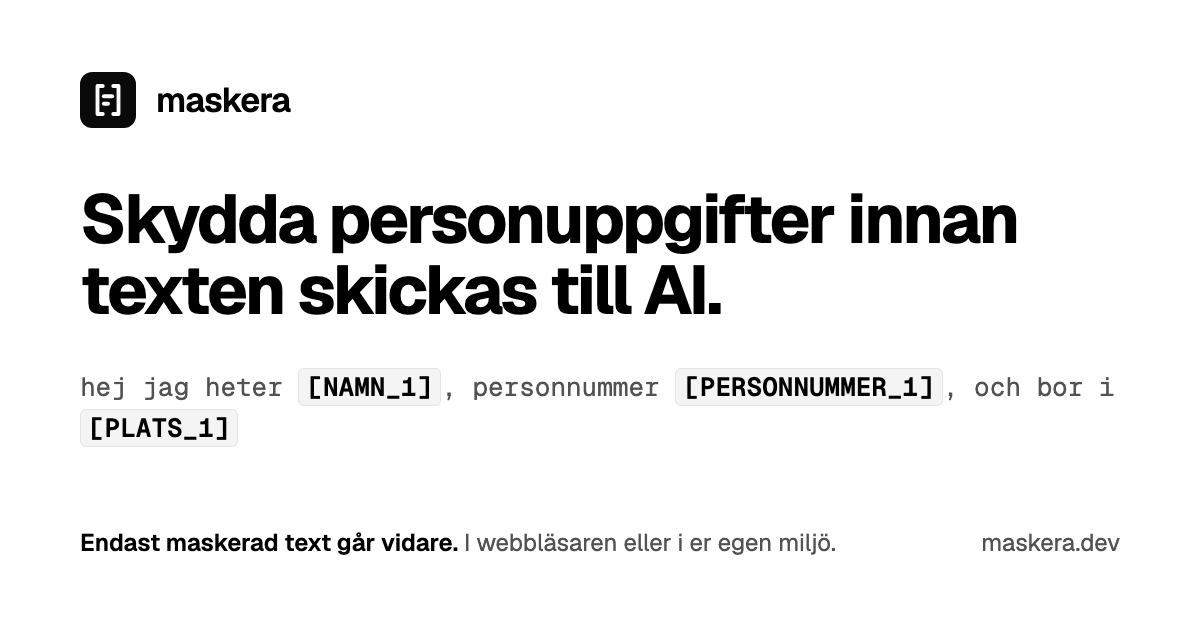
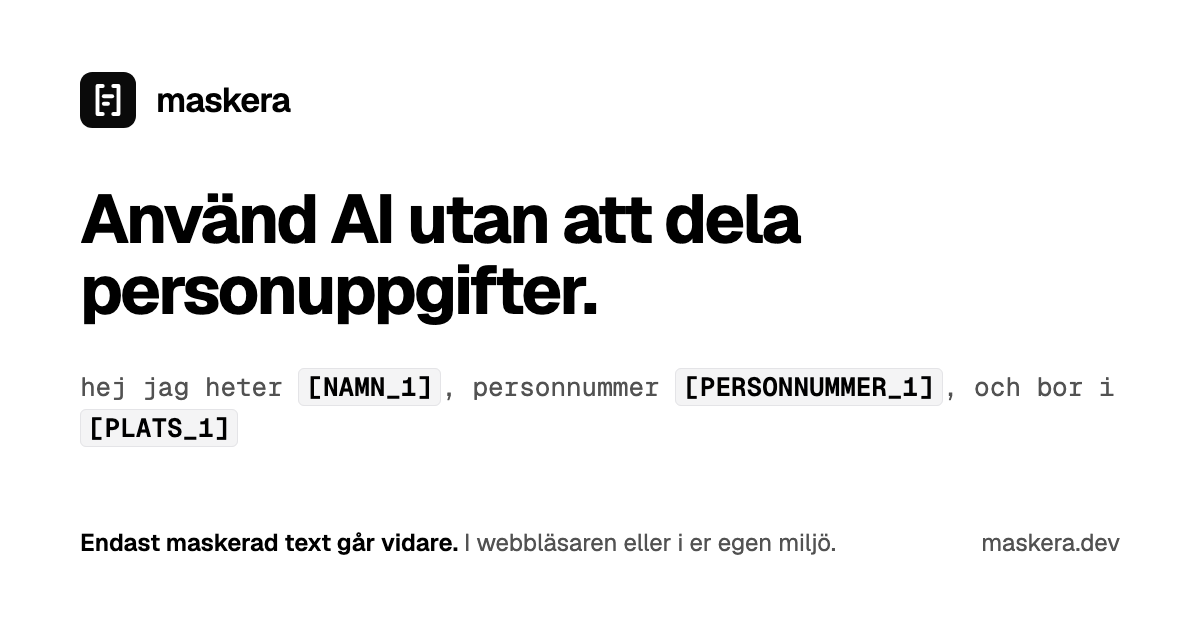
Center the hero on the benefit and show the extension in a chat
The headline becomes "Använd AI utan att dela personuppgifter" ("Use AI
without sharing personal data"), with the placeholder explained in the lede
instead of a person's name in the heading. Under the call to action, real
captures of extension 0.1.4 show the preview below a chat composer with the
popup on top; phones keep the chat capture only. The sample uses
Skatteverket's published test number 19900101-2385. Page titles, Open Graph
tags and the social cards follow the new headline.

Changed region(s): [[0.0617, 0.3016, 0.8633, 0.5127]]

diff --git a/apps/demo/src/components/Header.tsx b/apps/demo/src/components/Header.tsx
@@ -8,25 +8,68 @@ export function Header({ go }: { go: (view: View) => void }) {
   return (
     <header className="header">
       <TopBar current="demo" go={go} />
-      {/* One copy of the heading text: crawlers and screen readers read the
-          same sentence once, and CSS turns the spans into the deliberate
-          phone line breaks. */}
-      <h1 className="title">
-        {copy.header.titleMobile.split("\n").map((line, index) => (
-          <Fragment key={`${index}-${line}`}>
-            {index > 0 ? " " : null}
-            <span className="title-line">{line}</span>
-          </Fragment>
-        ))}
-      </h1>
-      <p className="lede">
-        {copy.header.lede} {copy.header.browserLead} <strong>{copy.header.browserEmphasis}</strong>.{" "}
-        {copy.header.browserPrivacy}
-      </p>
-      <ExtensionHeroActions go={go} />
-      {activeLocale === "en" ? (
-        <p className="demo-language-note">{copy.demo.languageNote}</p>
-      ) : null}
+      <div className="hero">
+        {/* One copy of the heading text: crawlers and screen readers read the
+            same sentence once, and CSS turns the spans into the deliberate
+            phone line breaks. */}
+        <h1 className="title">
+          {copy.header.titleMobile.split("\n").map((line, index) => (
+            <Fragment key={`${index}-${line}`}>
+              {index > 0 ? " " : null}
+              <span className="title-line">{line}</span>
+            </Fragment>
+          ))}
+        </h1>
+        <p className="lede">
+          {copy.header.lede.split("{marker}").map((part, index) => (
+            <Fragment key={`${index}-${part}`}>
+              {index > 0 ? <code className="lede-marker">[NAMN_1]</code> : null}
+              {part}
+            </Fragment>
+          ))}{" "}
+          {copy.header.browserLead} <strong>{copy.header.browserEmphasis}</strong>.
+        </p>
+        <ExtensionHeroActions go={go} />
+        {activeLocale === "en" ? (
+          <p className="demo-language-note">{copy.demo.languageNote}</p>
+        ) : null}
+        <HeroProduct />
+      </div>
     </header>
+  )
+}
+
+/**
+ * Real captures of the extension (0.1.4, fictional test data) in a neutral
+ * chat window: the preview under the composer, with the popup on top.
+ */
+function HeroProduct() {
+  return (
+    <figure className="hero-product">
+      <div className="hero-window">
+        <div className="hero-window-bar" aria-hidden="true">
+          <span />
+          <span />
+          <span />
+          <em>{copy.header.productLabel}</em>
+        </div>
+        <img
+          src="/hero/extension-preview.webp"
+          width={1368}
+          height={358}
+          alt={copy.header.productPreviewAlt}
+          fetchPriority="high"
+          decoding="async"
+        />
+      </div>
+      <img
+        className="hero-popup"
+        src="/hero/extension-popup.webp"
+        width={500}
+        height={751}
+        alt={copy.header.productPopupAlt}
+        decoding="async"
+      />
+    </figure>
   )
 }

diff --git a/apps/demo/index.html b/apps/demo/index.html
@@ -7,7 +7,7 @@
     <link rel="icon" type="image/png" sizes="96x96" href="/favicon-96.png" />
     <link rel="apple-touch-icon" href="/apple-touch-icon.png" />
     <link rel="manifest" href="/manifest.webmanifest" />
-    <title>Skydda personuppgifter innan texten skickas till AI · maskera</title>
+    <title>Använd AI utan att dela personuppgifter · maskera</title>
     <meta
       name="description"
       content="maskera döljer svenska personuppgifter innan text skickas till AI. Kör samma lokala maskering i webbläsaren, med tillägget för ChatGPT och Claude, eller via npm. Endast maskerad text går vidare."
@@ -34,7 +34,7 @@
     <meta property="og:locale" content="sv_SE" />
     <meta property="og:locale:alternate" content="en_GB" />
     <meta property="og:url" content="https://maskera.dev/" />
-    <meta property="og:title" content="Skydda personuppgifter innan texten skickas till AI · maskera" />
+    <meta property="og:title" content="Använd AI utan att dela personuppgifter · maskera" />
     <meta
       property="og:description"
       content="Skydda personuppgifter när du använder AI. Kör maskeringen lokalt i webbläsaren, med tillägget för ChatGPT och Claude, eller via npm."
@@ -45,10 +45,10 @@
     <meta property="og:image:type" content="image/png" />
     <meta
       property="og:image:alt"
-      content="maskera: Skydda personuppgifter innan texten skickas till AI. En exempelmening där namn, personnummer och ort har ersatts med platshållare."
+      content="maskera: Använd AI utan att dela personuppgifter. En exempelmening där namn, personnummer och ort har ersatts med platshållare."
     />
     <meta name="twitter:card" content="summary_large_image" />
-    <meta name="twitter:title" content="Skydda personuppgifter innan texten skickas till AI · maskera" />
+    <meta name="twitter:title" content="Använd AI utan att dela personuppgifter · maskera" />
     <meta
       name="twitter:description"
       content="Skydda personuppgifter när du använder AI. Kör maskeringen lokalt i webbläsaren, med tillägget för ChatGPT och Claude, eller via npm."
@@ -56,7 +56,7 @@
     <meta name="twitter:image" content="https://maskera.dev/og.png" />
     <meta
       name="twitter:image:alt"
-      content="maskera: Skydda personuppgifter innan texten skickas till AI. En exempelmening där namn, personnummer och ort har ersatts med platshållare."
+      content="maskera: Använd AI utan att dela personuppgifter. En exempelmening där namn, personnummer och ort har ersatts med platshållare."
     />
 
     <script type="application/ld+json">

diff --git a/apps/demo/src/styles.css b/apps/demo/src/styles.css
@@ -222,6 +222,91 @@ html[data-theme="dark"] .theme-toggle .theme-moon {
   letter-spacing: -0.035em;
   max-width: 18ch;
 }
+/* Centered hero: headline, call to action and a capture of the extension. */
+.hero {
+  display: flex;
+  flex-direction: column;
+  align-items: center;
+  text-align: center;
+}
+.hero .title {
+  margin-top: 64px;
+  font-size: 56px;
+  line-height: 1.04;
+  letter-spacing: -0.04em;
+  max-width: 16ch;
+}
+.hero .lede {
+  max-width: 60ch;
+}
+.lede-marker {
+  padding: 1px 6px;
+  font: 600 0.88em var(--mono);
+  color: var(--fg);
+  background: var(--gray-200);
+  border: 1px solid var(--border);
+  border-radius: 6px;
+  white-space: nowrap;
+}
+.hero .hero-cta-row,
+.hero .hero-browsers {
+  justify-content: center;
+}
+.hero .demo-language-note {
+  text-align: left;
+}
+.hero-product {
+  position: relative;
+  width: 100%;
+  max-width: 960px;
+  margin: 44px 0 0;
+  padding: 0 120px 290px 0;
+}
+.hero-window {
+  overflow: hidden;
+  border: 1px solid var(--border-2);
+  border-radius: 14px;
+  background: #fff;
+  box-shadow:
+    0 24px 60px rgb(0 0 0 / 0.1),
+    0 2px 8px rgb(0 0 0 / 0.05);
+}
+.hero-window-bar {
+  display: flex;
+  align-items: center;
+  gap: 6px;
+  height: 32px;
+  padding: 0 12px;
+  border-bottom: 1px solid #eaeaea;
+  background: #fafafa;
+}
+.hero-window-bar span {
+  width: 9px;
+  height: 9px;
+  border-radius: 50%;
+  background: #e4e4e7;
+}
+.hero-window-bar em {
+  margin-left: 10px;
+  font: 12px var(--sans);
+  color: #666;
+  font-style: normal;
+}
+.hero-window img,
+.hero-popup {
+  display: block;
+  width: 100%;
+  height: auto;
+}
+.hero-popup {
+  position: absolute;
+  right: 0;
+  bottom: 0;
+  width: 230px;
+  border: 1px solid var(--border-2);
+  border-radius: 14px;
+  box-shadow: 0 24px 60px rgb(0 0 0 / 0.16);
+}
 .lede {
   margin: 18px 0 0;
   max-width: 60ch;
@@ -1082,6 +1167,18 @@ html[data-theme="dark"] .tag {
   border-radius: 999px;
 }
 @media (max-width: 720px) {
+  .hero .title {
+    margin-top: 40px;
+    font-size: 36px;
+  }
+  /* Phones cannot run the extension: keep the chat capture, drop the popup. */
+  .hero-product {
+    margin-top: 32px;
+    padding: 0;
+  }
+  .hero-popup {
+    display: none;
+  }
   .hero-cta {
     flex: 1 1 auto;
     min-height: 44px;

diff --git a/apps/demo/test/header.test.tsx b/apps/demo/test/header.test.tsx
@@ -1,5 +1,8 @@
 // @vitest-environment jsdom
-import { fireEvent, render, screen } from "@testing-library/react"
+import { existsSync } from "node:fs"
+import { dirname, join } from "node:path"
+import { fileURLToPath } from "node:url"
+import { fireEvent, render, screen, within } from "@testing-library/react"
 import { describe, expect, it, vi } from "vitest"
 import { Header } from "../src/components/Header"
 import copy from "../src/i18n/sv.json"
@@ -11,7 +14,8 @@ describe("Header", () => {
 
     expect(screen.getByRole("heading", { name: copy.header.title })).toBeTruthy()
     expect(screen.getByText(copy.header.browserEmphasis).tagName).toBe("STRONG")
-    expect(container.querySelector(".lede")?.textContent).toContain(copy.header.browserPrivacy)
+    expect(container.querySelector(".lede-marker")?.textContent).toBe("[NAMN_1]")
+    expect(container.querySelector(".lede")?.textContent).not.toContain("{marker}")
     const learnMore = screen.getByRole("link", { name: copy.extensionInstall.heroLearnMore })
     expect(learnMore.getAttribute("href")).toBe("/tjanster")
     fireEvent.click(learnMore)
@@ -25,5 +29,17 @@ describe("Header", () => {
     // sentence used to triple it.
     expect(container.querySelector("h1")?.textContent).toBe(copy.header.title)
     expect(copy.header.titleMobile.split("\n").join(" ")).toBe(copy.header.title)
+  })
+
+  it("shows real extension captures that ship with the site", () => {
+    const { container } = render(<Header go={vi.fn()} />)
+    for (const alt of [copy.header.productPreviewAlt, copy.header.productPopupAlt]) {
+      const image = within(container).getByAltText(alt)
+      const src = image.getAttribute("src") ?? ""
+      const publicDir = join(dirname(fileURLToPath(import.meta.url)), "../public")
+      expect(existsSync(join(publicDir, src)), src).toBe(true)
+      expect(image.getAttribute("width")).toBeTruthy()
+      expect(image.getAttribute("height")).toBeTruthy()
+    }
   })
 })

diff --git a/apps/demo/test/htmlToMarkdown.test.ts b/apps/demo/test/htmlToMarkdown.test.ts
@@ -10,19 +10,19 @@ function markdownFor(pathname: string): string {
 describe("htmlToMarkdown", () => {
   it("turns the home page into a title, summary and the hero copy without the live demo", () => {
     const md = markdownFor("/")
-    expect(md.startsWith("# Skydda personuppgifter innan texten skickas till AI.\n\n> ")).toBe(true)
+    expect(md.startsWith("# Använd AI utan att dela personuppgifter.\n\n> ")).toBe(true)
     expect(md).toContain("Canonical: https://maskera.dev/ (sv)")
     expect(md).toContain("en: https://maskera.dev/en")
     expect(md).toContain("Markdown: https://maskera.dev/index.md")
     expect(md).toContain("https://maskera.dev/llms.txt")
-    expect(md).toContain("maskera döljer namn, personnummer och adresser")
+    expect(md).toContain("maskera byter namn, personnummer och e-post mot markörer")
     // Interactive regions and chrome are gone
     expect(md).not.toContain("Kandidat: Sara Lindgren")
     expect(md).not.toContain("Hoppa till huvudinnehållet")
     expect(md).not.toContain("Testa ett exempel")
     expect(md).not.toContain("Kopiera")
     // The hero title is emitted once, not three times (sr-only + two aria-hidden copies)
-    expect(md.match(/Skydda personuppgifter innan texten skickas till AI\./g)?.length).toBe(1)
+    expect(md.match(/Använd AI utan att dela personuppgifter\./g)?.length).toBe(1)
     expect(md.length).toBeGreaterThan(500)
   })
 

diff --git a/apps/demo/test/routing.test.tsx b/apps/demo/test/routing.test.tsx
@@ -14,7 +14,7 @@ import { navClick, useRoute, viewFromPath } from "../src/routing"
  * rendered title). The home view's runtime title must equal the static one.
  */
 
-const STATIC_TITLE = "Skydda personuppgifter innan texten skickas till AI · maskera"
+const STATIC_TITLE = "Använd AI utan att dela personuppgifter · maskera"
 vi.spyOn(window, "scrollTo").mockImplementation(() => {})
 
 beforeEach(() => {
